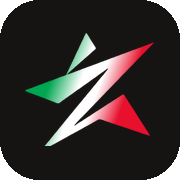
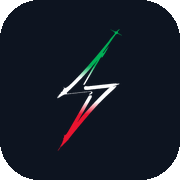
New bolt mark in tricolore, shipped as PNG, and a much lighter first load
Mark
- The bolt replaces the chevron tile, lifted off its black ground. A brightness
  cut alone gave only its bright rims — the mark is drawn as edges around a dark
  interior — so the background is flooded inward from the border and whatever
  the flood cannot reach is kept as the mark's body.
- The tricolore runs top to bottom: green, white, red, wide flats and short
  blends. A diagonal ramp put both arms in the blend zones and washed them out.
- Shipped as PNG at 256 for the page and 512/192/180/32 for the icons, plus the
  Open Graph card — one asset a crawler can fetch and index directly.

Speed
- Everything below the hero and the stats band is code-split. First load falls
  from 470KB to 234KB (158KB to 73KB gzipped); the pricing grid, which pulls in
  the animation library, no longer costs anything until it is reached.
- Vite was inlining the channel logos as base64, burying 84KB gzip of artwork
  inside a JS chunk. Files over 1KB now stay files the browser can cache:
  that chunk drops from 128KB to 27KB.

Claude-Session: https://claude.ai/code/session_01FXKAhcCTM8pnQP9oWbqiGg

Changed region(s): [[0.1389, 0.1667, 0.8611, 0.8333]]

diff --git a/src/App.tsx b/src/App.tsx
@@ -1,20 +1,45 @@
-import React from 'react';
+import React, { Suspense, lazy } from 'react';
 import { Navbar } from './components/Navbar';
 import { Hero } from './components/Hero';
 import { StatsBand } from './components/StatsBand';
-import { ChannelShowcase } from './components/ChannelShowcase';
-import { FilmsSeries } from './components/FilmsSeries';
-import { Features } from './components/Features';
-import { DeviceCompatibility } from './components/DeviceCompatibility';
-import { SpeedCheckWidget } from './components/SpeedCheckWidget';
-import { Pricing } from './components/Pricing';
-import { SetupSteps } from './components/SetupSteps';
-import { Testimonials } from './components/Testimonials';
-import { FaqSection } from './components/FaqSection';
-import { Footer } from './components/Footer';
-import { WhatsAppFloating } from './components/WhatsAppFloating';
 import { MobileNav } from './components/MobileNav';
 import { SplashIntro } from './components/SplashIntro';
+
+/*
+ * Only the hero and the band under it are needed to paint. Everything below is
+ * split out, so the first load carries the frame and the artwork instead of the
+ * whole page — the pricing grid alone pulls in the animation library.
+ */
+const ChannelShowcase = lazy(() =>
+  import('./components/ChannelShowcase').then((m) => ({ default: m.ChannelShowcase }))
+);
+const FilmsSeries = lazy(() =>
+  import('./components/FilmsSeries').then((m) => ({ default: m.FilmsSeries }))
+);
+const Features = lazy(() => import('./components/Features').then((m) => ({ default: m.Features })));
+const DeviceCompatibility = lazy(() =>
+  import('./components/DeviceCompatibility').then((m) => ({ default: m.DeviceCompatibility }))
+);
+const SpeedCheckWidget = lazy(() =>
+  import('./components/SpeedCheckWidget').then((m) => ({ default: m.SpeedCheckWidget }))
+);
+const Pricing = lazy(() => import('./components/Pricing').then((m) => ({ default: m.Pricing })));
+const SetupSteps = lazy(() =>
+  import('./components/SetupSteps').then((m) => ({ default: m.SetupSteps }))
+);
+const Testimonials = lazy(() =>
+  import('./components/Testimonials').then((m) => ({ default: m.Testimonials }))
+);
+const FaqSection = lazy(() =>
+  import('./components/FaqSection').then((m) => ({ default: m.FaqSection }))
+);
+const Footer = lazy(() => import('./components/Footer').then((m) => ({ default: m.Footer })));
+const WhatsAppFloating = lazy(() =>
+  import('./components/WhatsAppFloating').then((m) => ({ default: m.WhatsAppFloating }))
+);
+
+/** Holds the scroll position while a section's chunk arrives. */
+const SectionFallback: React.FC = () => <div className="min-h-[40vh]" />;
 
 export default function App() {
   // Gli ordini passano da WhatsApp: ogni CTA "vedi i pacchetti" porta
@@ -36,8 +61,10 @@ export default function App() {
       <main id="main-content">
         <Hero onOpenCheckoutModal={() => handleViewPlans()} />
 
-        {/* The four headline figures, on a dark band under the hero */}
+        {/* The four headline figures, on a band under the hero */}
         <StatsBand />
+
+        <Suspense fallback={<SectionFallback />}>
 
         {/* Channel Showcase & Live Guide */}
         <ChannelShowcase onOpenCheckoutModal={() => handleViewPlans()} />
@@ -65,12 +92,14 @@ export default function App() {
 
         {/* FAQ Accordion Section */}
         <FaqSection />
+        </Suspense>
       </main>
 
       {/* Footer */}
-      <Footer onOpenCheckoutModal={() => handleViewPlans()} />
-
-      <WhatsAppFloating />
+      <Suspense fallback={<SectionFallback />}>
+        <Footer onOpenCheckoutModal={() => handleViewPlans()} />
+        <WhatsAppFloating />
+      </Suspense>
 
       {/* Floating bottom navigation, phones and tablets only */}
       <MobileNav />

diff --git a/src/components/Logo.tsx b/src/components/Logo.tsx
@@ -1,63 +1,42 @@
-import React, { useId } from 'react';
+import React from 'react';
+import boltUrl from '../assets/logo-bolt-256.png';
 
 /**
- * Italia IPTV mark, second identity.
+ * Italia IPTV mark: the bolt, filled with the tricolore running top to bottom.
  *
- * A hard-cornered chevron pair — the fast-forward cue — cut out of a rounded
- * tile, with the tricolore running through the cut and an azzurro tile behind
- * it. Geometric where the first identity was a hand-drawn star.
+ * Shipped as a PNG rather than inline vector so the same file backs the page,
+ * the tab icon, the app icon and the Open Graph card — one asset a crawler can
+ * fetch and index directly.
+ *
+ * The mark's middle band is white, so on light ground it sits on an ink tile;
+ * `inverted` drops the tile for dark ground where the white already reads.
  */
 
 interface MarkProps {
-  /** Lightens the tile, for use on the deepest grounds. */
+  /** Drops the tile, for dark backgrounds. */
   inverted?: boolean;
   className?: string;
   style?: React.CSSProperties;
 }
 
-export const LogoMark: React.FC<MarkProps> = ({ inverted = false, className = '', style }) => {
-  // Unique per instance: a shared id would break the moment the first holder
-  // of the definition unmounted.
-  const uid = useId().replace(/:/g, '');
-
-  return (
-    <span
-      className={`inline-flex items-center justify-center shrink-0 ${className}`}
-      style={style}
-    >
-      <svg
-        viewBox="0 0 64 64"
-        width="100%"
-        height="100%"
-        preserveAspectRatio="xMidYMid meet"
-        className="block w-full h-full"
-        aria-hidden="true"
-      >
-        <defs>
-          <linearGradient id={`tile-${uid}`} x1="0" y1="0" x2="1" y2="1">
-            <stop offset="0%" stopColor={inverted ? '#1d2735' : '#2b7fff'} />
-            <stop offset="100%" stopColor={inverted ? '#121824' : '#1a5fd6'} />
-          </linearGradient>
-          <linearGradient id={`flag-${uid}`} x1="0" y1="0" x2="1" y2="0.3">
-            <stop offset="0%" stopColor="#00c46a" />
-            <stop offset="34%" stopColor="#00c46a" />
-            <stop offset="46%" stopColor="#ffffff" />
-            <stop offset="58%" stopColor="#ffffff" />
-            <stop offset="70%" stopColor="#ff3b4e" />
-            <stop offset="100%" stopColor="#ff3b4e" />
-          </linearGradient>
-        </defs>
-
-        {/* Tile */}
-        <rect x="0" y="0" width="64" height="64" rx="18" fill={`url(#tile-${uid})`} />
-
-        {/* Chevron pair, in the tricolore */}
-        <path d="M14 18 L30 32 L14 46 L21.5 46 L37.5 32 L21.5 18 Z" fill={`url(#flag-${uid})`} />
-        <path d="M32 18 L48 32 L32 46 L39.5 46 L55.5 32 L39.5 18 Z" fill={`url(#flag-${uid})`} opacity="0.55" />
-      </svg>
-    </span>
-  );
-};
+export const LogoMark: React.FC<MarkProps> = ({ inverted = false, className = '', style }) => (
+  <span
+    className={`inline-flex items-center justify-center shrink-0 ${
+      inverted ? '' : 'bg-ink rounded-[26%]'
+    } ${className}`}
+    style={style}
+  >
+    <img
+      src={boltUrl}
+      alt=""
+      aria-hidden="true"
+      width={256}
+      height={256}
+      decoding="async"
+      className={`block object-contain ${inverted ? 'w-full h-full' : 'w-[72%] h-[72%]'}`}
+    />
+  </span>
+);
 
 interface LogoProps {
   inverted?: boolean;

diff --git a/vite.config.ts b/vite.config.ts
@@ -5,6 +5,12 @@ import {defineConfig} from 'vite';
 
 export default defineConfig(() => {
   return {
+    build: {
+      // Channel logos are dozens of small files; inlining them as base64 buried
+      // ~84KB gzip of artwork inside the JS chunk instead of letting the browser
+      // cache them as images.
+      assetsInlineLimit: 1024,
+    },
     plugins: [react(), tailwindcss()],
     resolve: {
       alias: {
